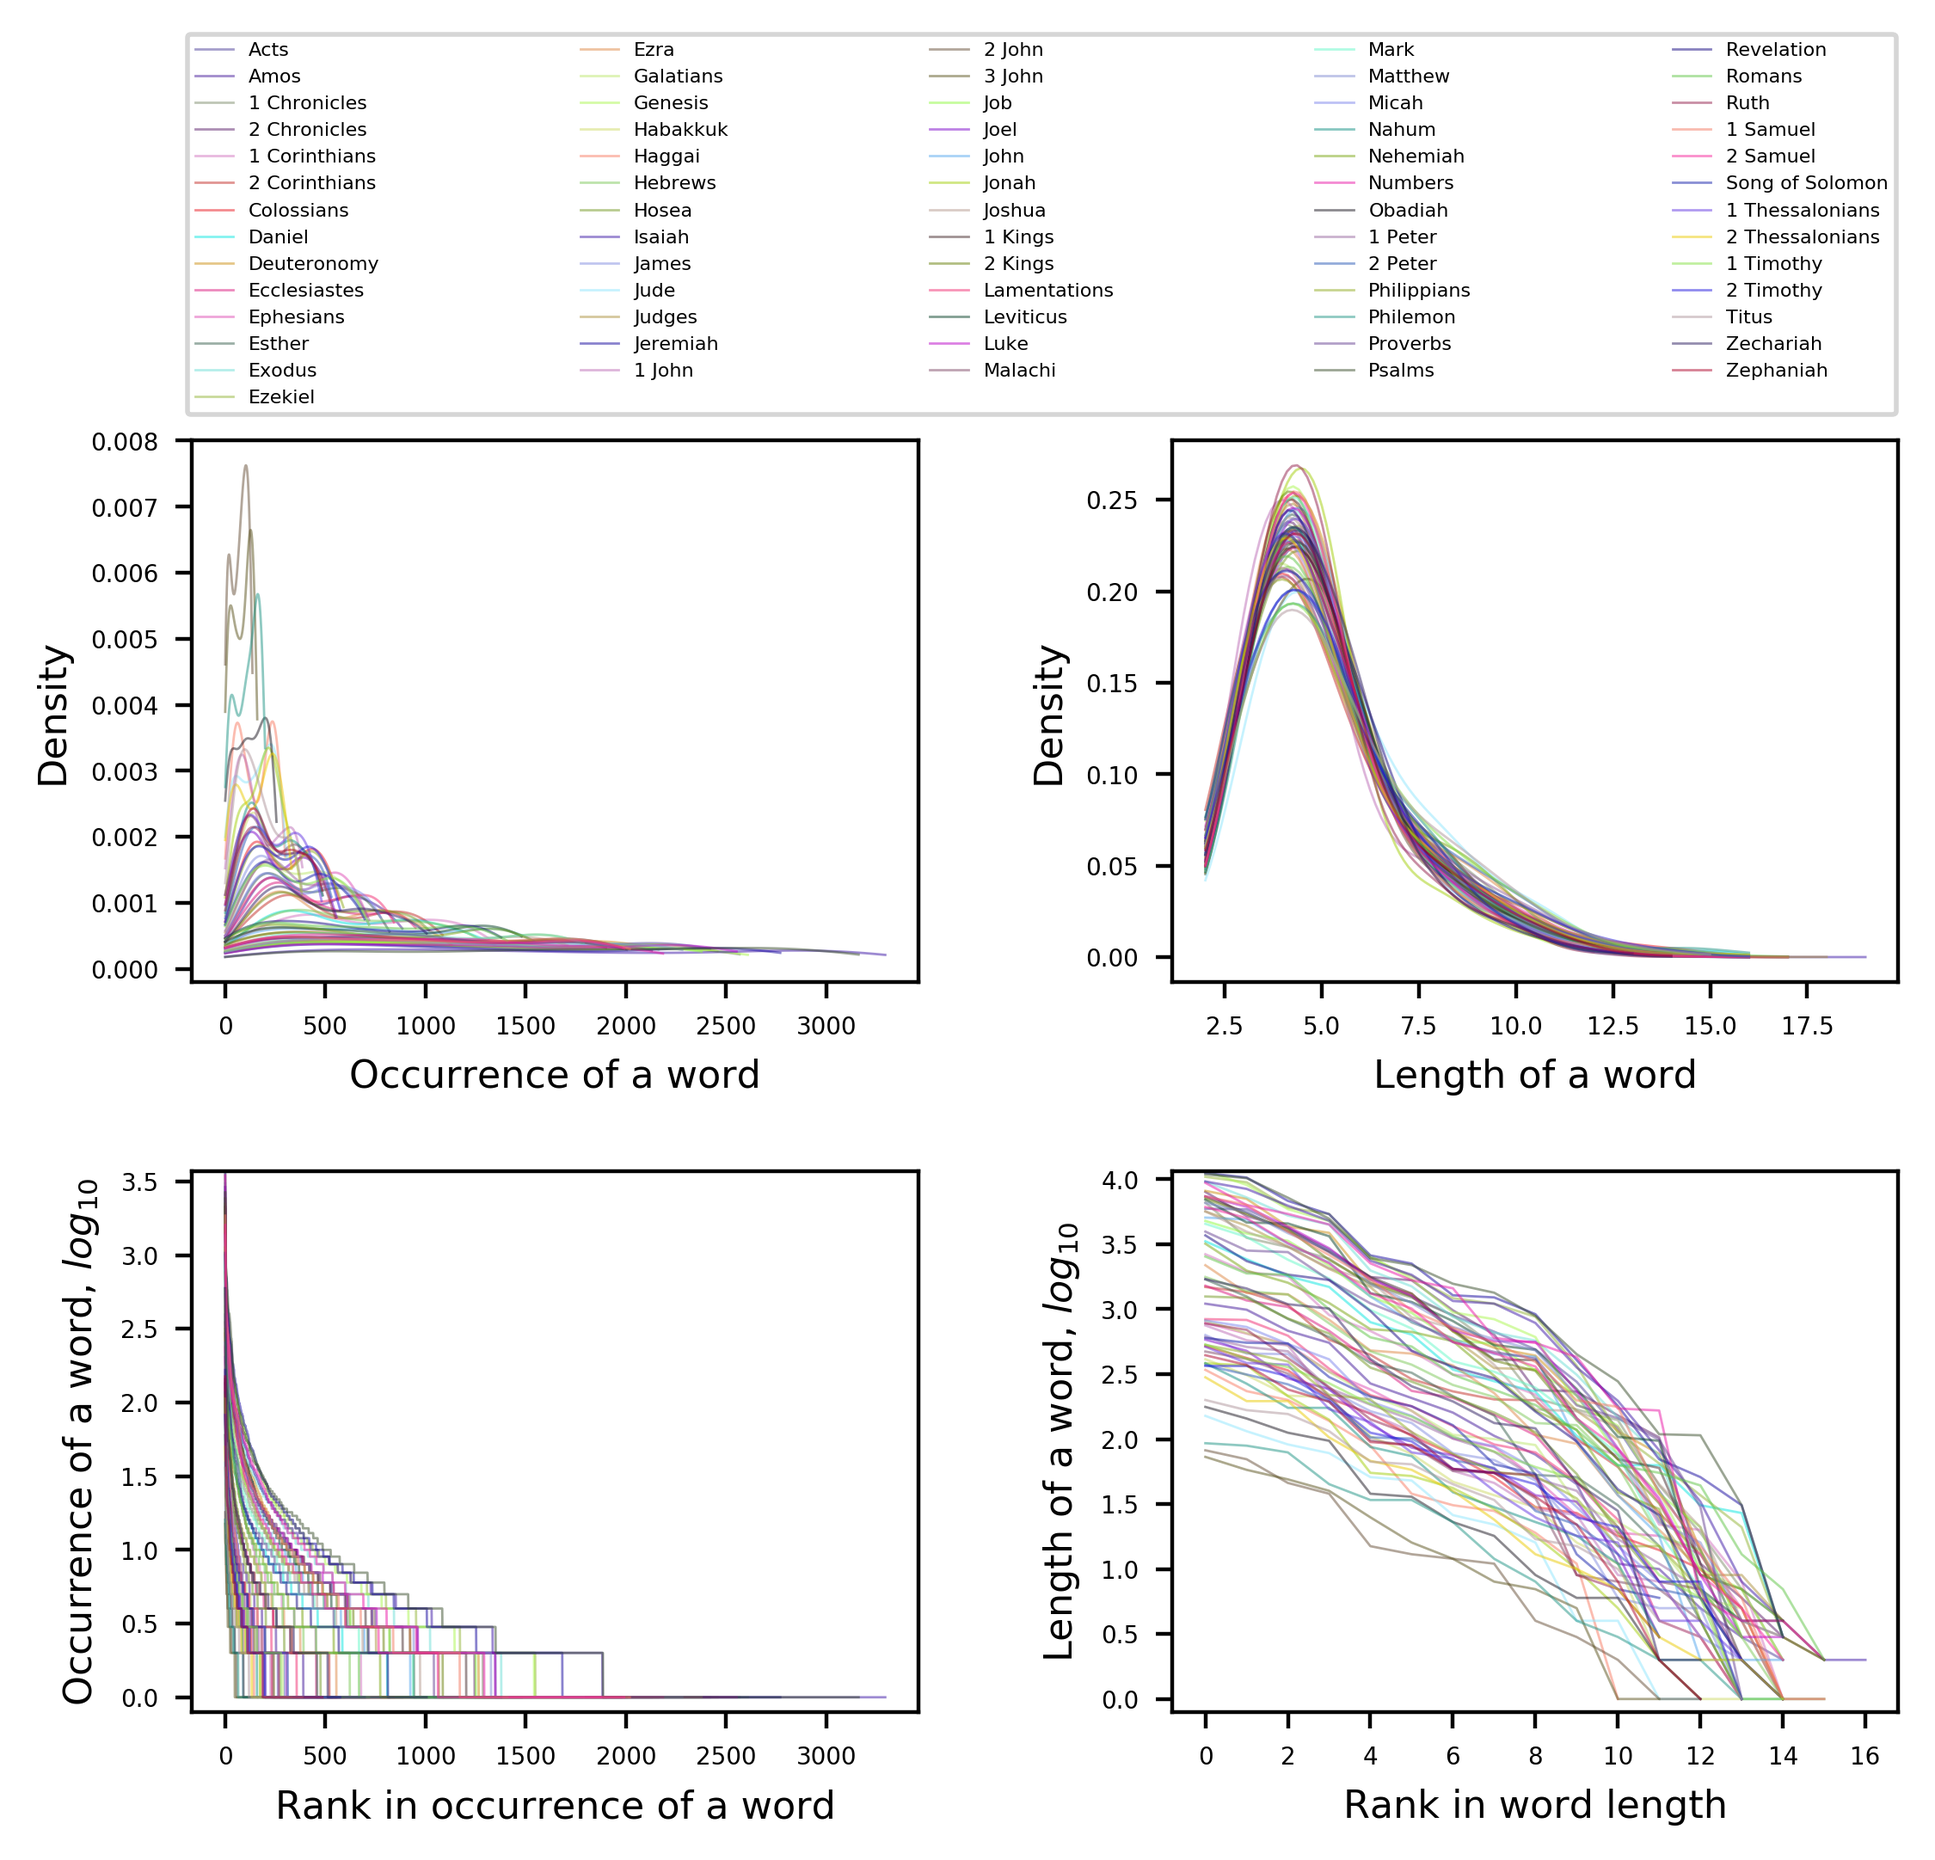
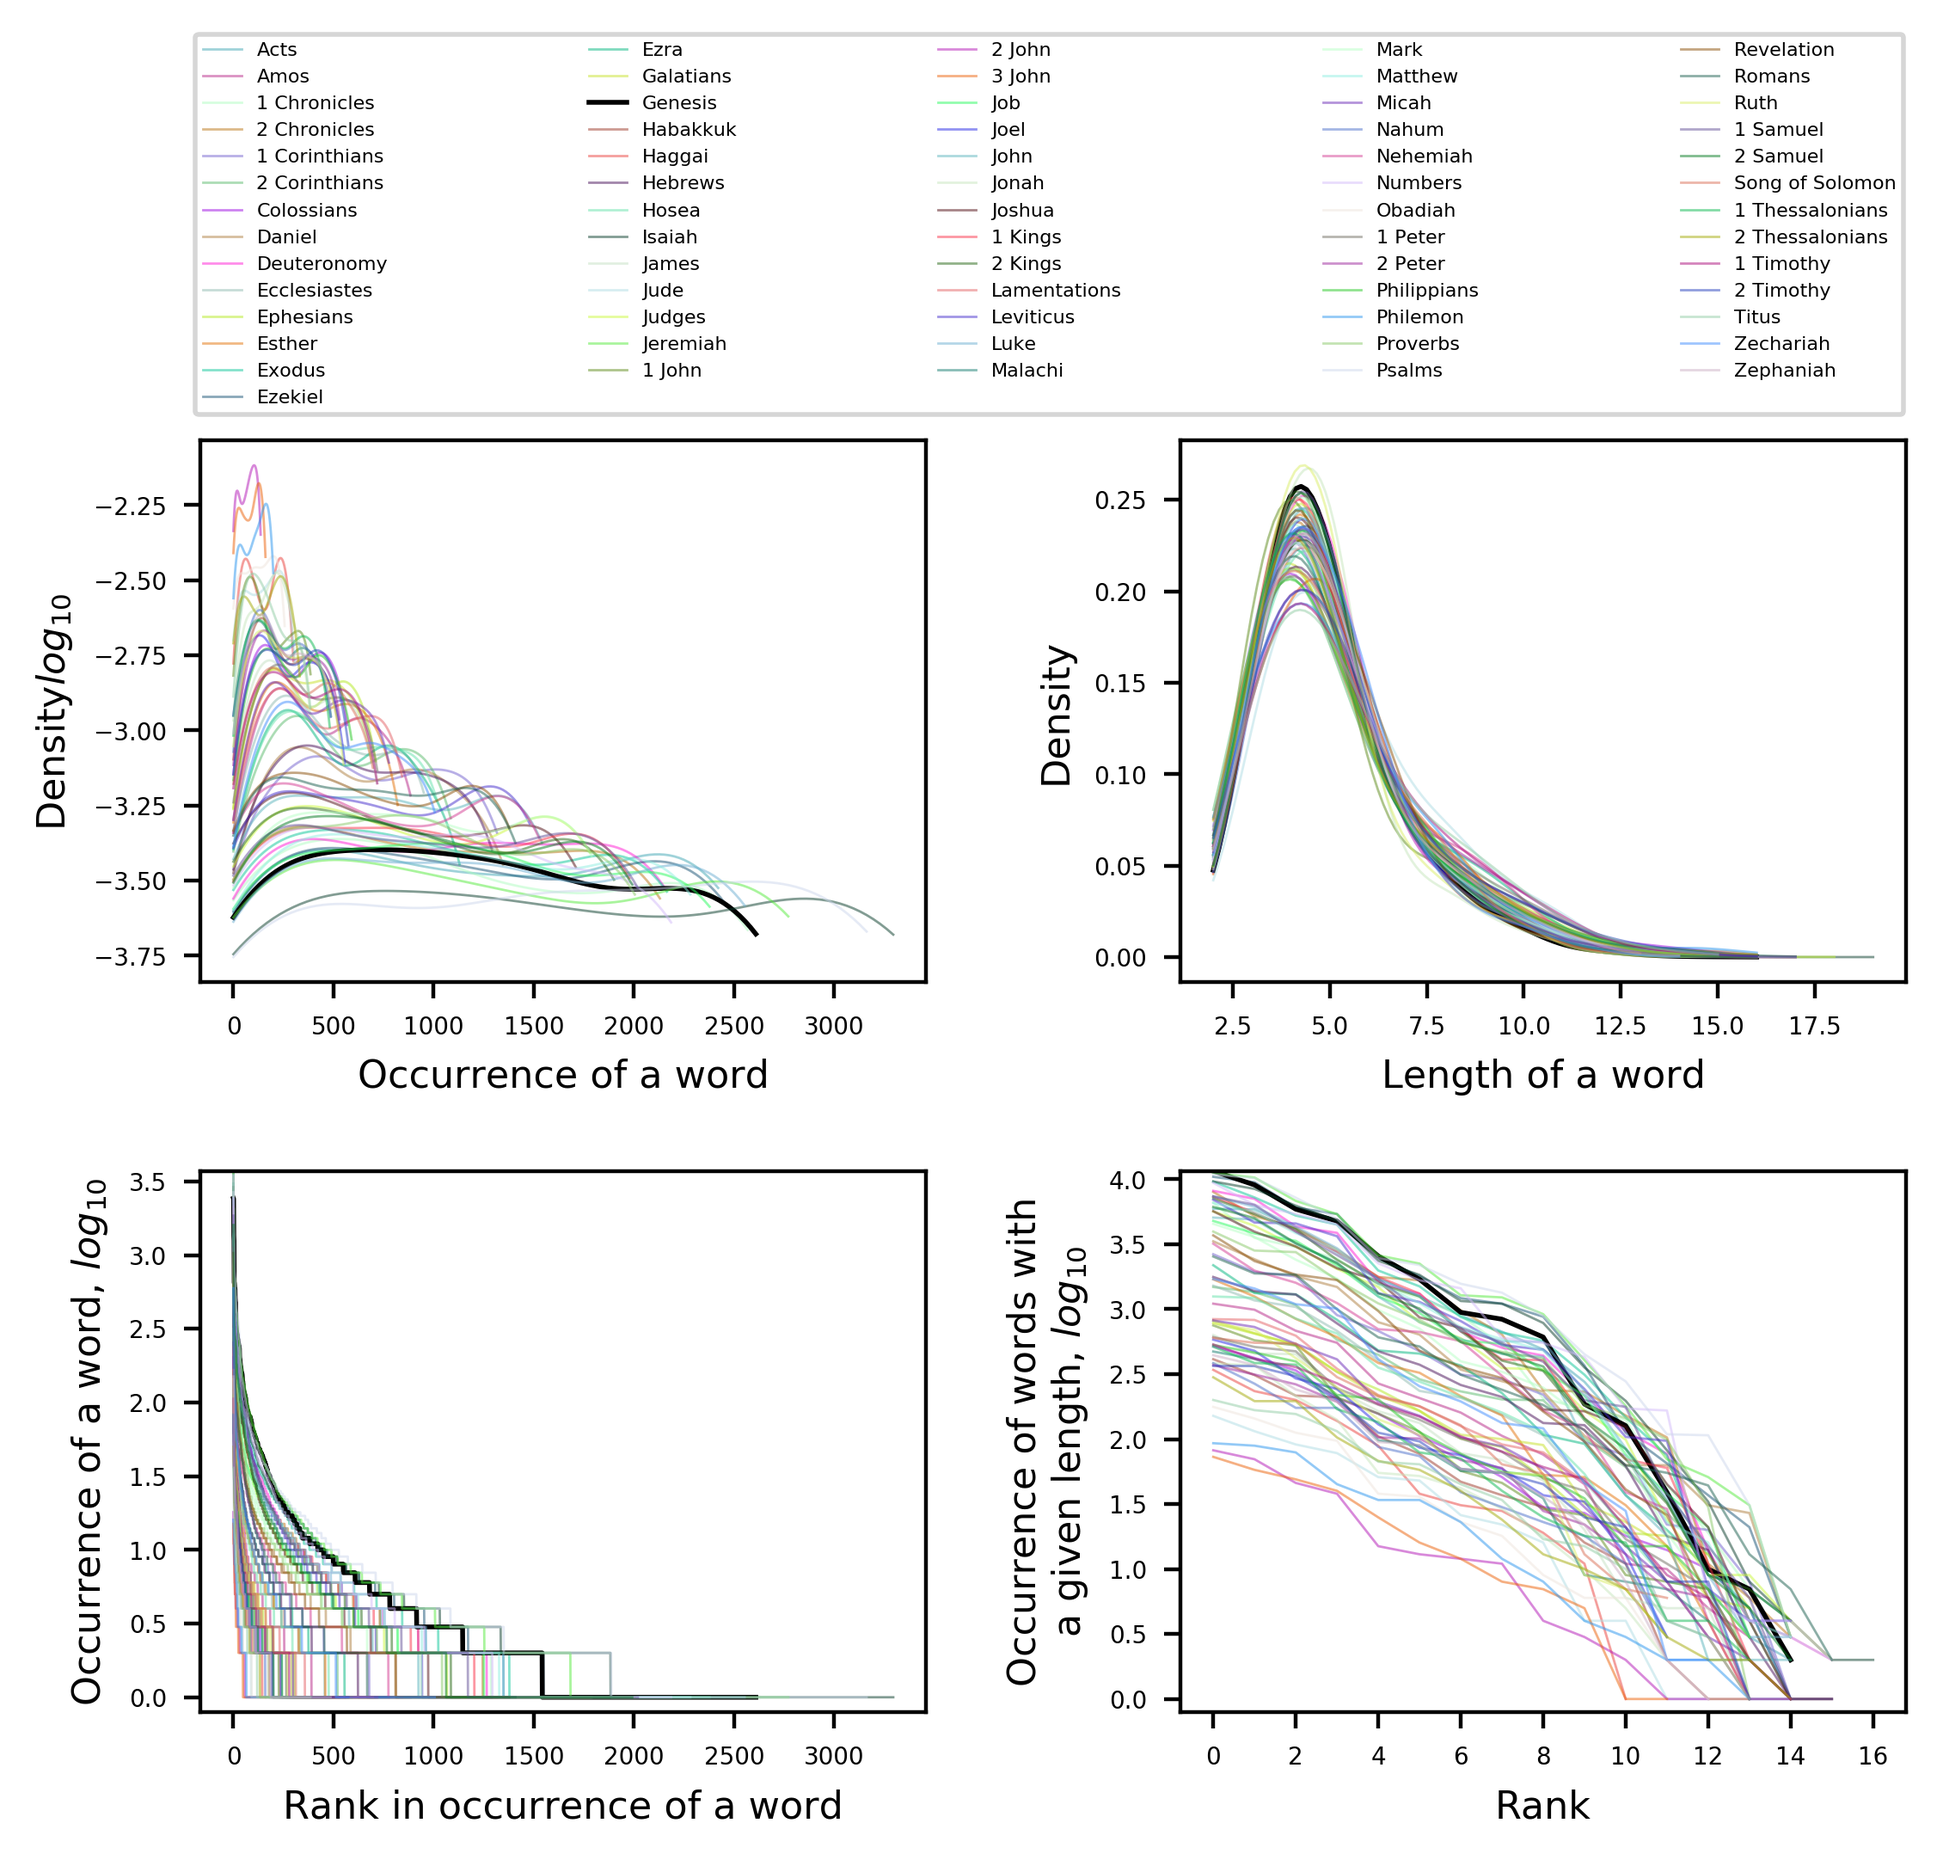
added python code to analyze KingJames Bible and generate a few figures. -KL

diff --git a/PythonCode/prose_analysis/model/RACs-Bible_KingJamesVersion.py b/PythonCode/prose_analysis/model/RACs-Bible_KingJamesVersion.py
@@ -39,7 +39,7 @@ def GetRAD(vector):
 
     unique_lengths = list(set(lengths))
     for val in unique_lengths:
-        RAD_lengths.append(lengths.count(val))
+        RAD_lengths.append(lengths.count(val)) # occurrence of a word of a given length
 
     return RAD_freqs, RAD_lengths, unique, lengths, w2n
 
@@ -150,10 +150,11 @@ fig = plt.figure()
 fig.add_subplot(2, 2, 1)
 for i, j in enumerate(W2N):
     D = get_kdens_choose_kernel(j, kernel)
-    plt.plot(D[0], D[1], color = clist[i], lw=0.5, alpha=0.5, label=Names[i])
+    if Names[i] == 'Genesis': plt.plot(D[0], np.log10(D[1]), color = 'k', lw=1, label=Names[i])
+    else: plt.plot(D[0], np.log10(D[1]), color = clist[i], lw=0.5, alpha=0.5, label=Names[i])
 
 plt.xlabel('Occurrence of a word', fontsize=8)
-plt.ylabel('Density', fontsize=8)
+plt.ylabel('Density'+r'$log_{10}$', fontsize=8)
 plt.tick_params(axis='both', labelsize=5)
 
 plt.legend(bbox_to_anchor=(-0.02, 1.05, 2.38, 0.7), loc=10, ncol=5, mode="expand", prop={'size':4})
@@ -163,7 +164,8 @@ plt.legend(bbox_to_anchor=(-0.02, 1.05, 2.38, 0.7), loc=10, ncol=5, mode="expand
 fig.add_subplot(2, 2, 2)
 for i, j in enumerate(Lengths):
     D = get_kdens_choose_kernel(j, kernel)
-    plt.plot(D[0], D[1], color = clist[i], lw=0.5, alpha=0.5)
+    if Names[i] == 'Genesis': plt.plot(D[0], D[1], color = 'k', lw=1)
+    else: plt.plot(D[0], D[1], color = clist[i], lw=0.5, alpha=0.5)
 
 plt.xlabel('Length of a word', fontsize=8)
 plt.ylabel('Density', fontsize=8)
@@ -175,7 +177,9 @@ for i, j in enumerate(RAC_F):
     j.sort(reverse=True)
     if max(j) > maxx: maxx = max(j)
     ranks = range(len(j))
-    plt.plot(ranks, np.log10(j), color = clist[i], lw=0.5, alpha=0.5)
+
+    if Names[i] == 'Genesis': plt.plot(ranks, np.log10(j), color = 'k', lw=1)
+    else: plt.plot(ranks, np.log10(j), color = clist[i], lw=0.5, alpha=0.5)
 
 plt.xlabel('Rank in occurrence of a word', fontsize=8)
 plt.ylabel('Occurrence of a word, '+r'$log_{10}$', fontsize=8)
@@ -188,10 +192,11 @@ for i, j in enumerate(RAC_L):
     j.sort(reverse=True)
     if max(j) > maxx: maxx = max(j)
     ranks = range(len(j))
-    plt.plot(ranks, np.log10(j), color = clist[i], lw=0.5, alpha=0.5)
+    if Names[i] == 'Genesis': plt.plot(ranks, np.log10(j), color = 'k', lw=1)
+    else: plt.plot(ranks, np.log10(j), color = clist[i], lw=0.5, alpha=0.5)
 
-plt.xlabel('Rank in word length', fontsize=8)
-plt.ylabel('Length of a word, '+r'$log_{10}$', fontsize=8)
+plt.xlabel('Rank', fontsize=8)
+plt.ylabel('Occurrence of words with\na given length, '+r'$log_{10}$', fontsize=8)
 plt.ylim(-0.1, np.log10(maxx))
 plt.tick_params(axis='both', labelsize=5)
 
